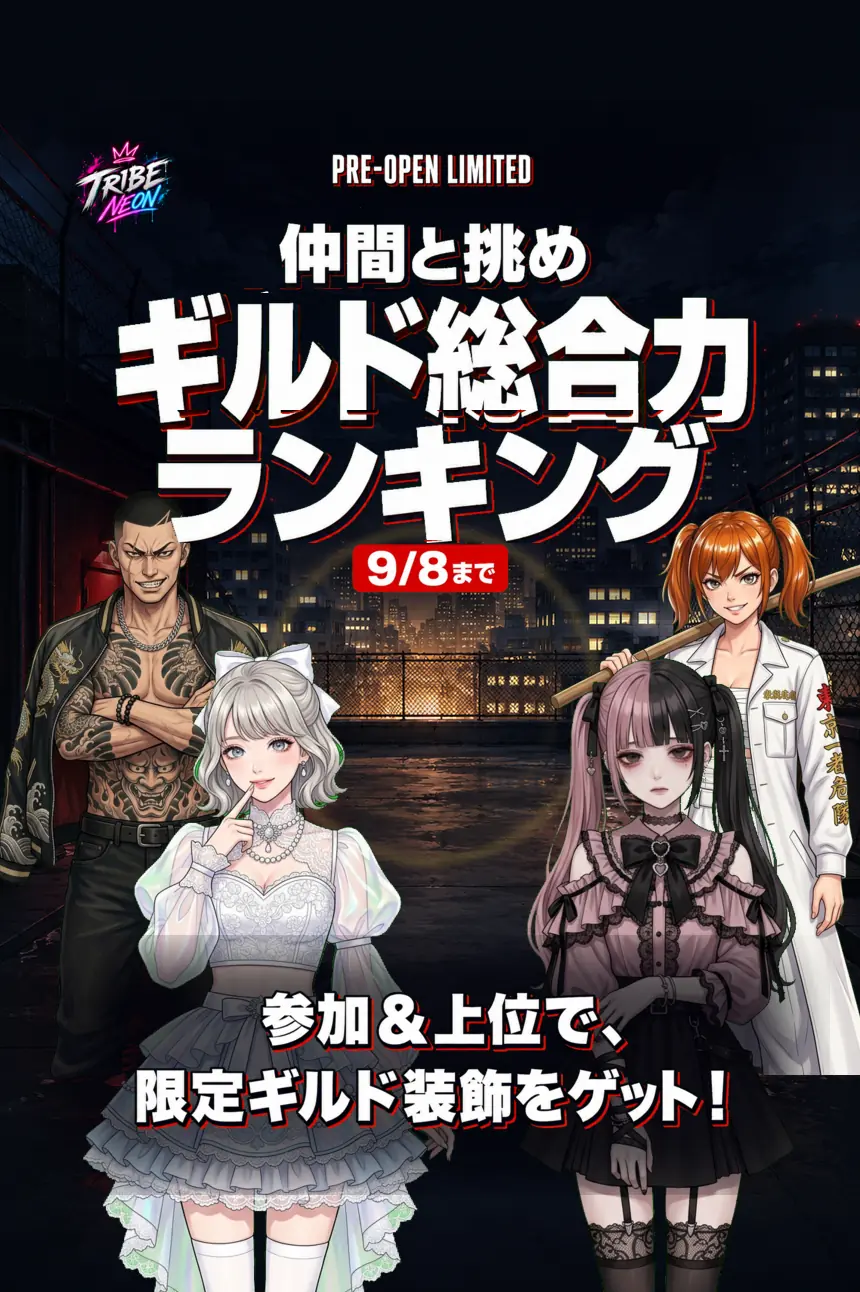
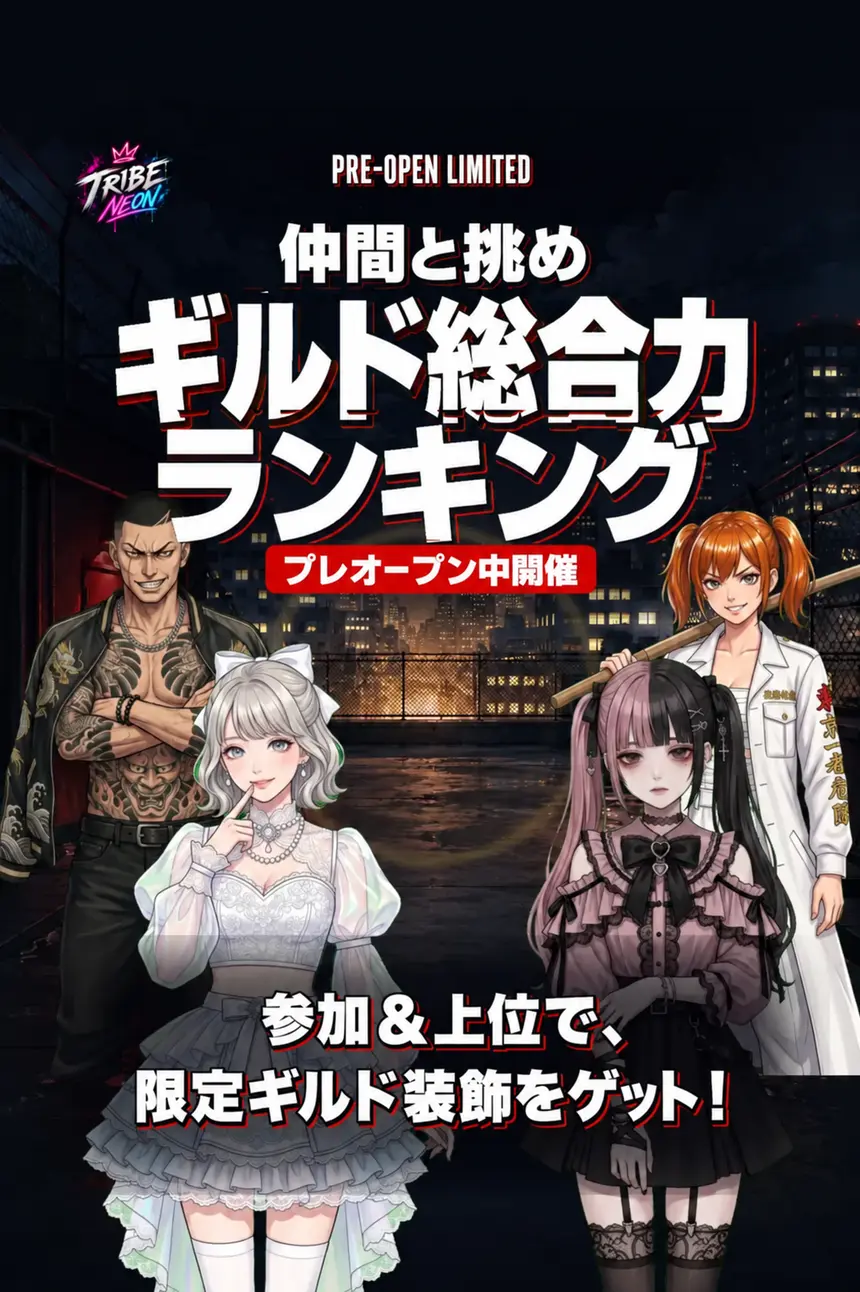
fix: extend pre-open campaigns with approved temporary end

diff --git a/src/app/qa/presentation/QaPresentationHarness.tsx b/src/app/qa/presentation/QaPresentationHarness.tsx
@@ -10,6 +10,7 @@ import GachaTab from "@/app/components/GachaTab";
 import CommonModals from "@/app/components/CommonModals";
 import Header from "@/app/components/Header";
 import HomeTab from "@/app/components/HomeTab";
+import PrepMissionEventDialogController from "@/app/components/mission/PrepMissionEventDialogController";
 import MoveBaseModal from "@/app/components/MoveBaseModal";
 import CharacterPresentation from "@/app/components/character/CharacterPresentation";
 import PageShell from "@/app/components/ui/PageShell";
@@ -365,6 +366,9 @@ function PublicProfileFixture() {
 type HomeScenario = "first-home-fresh" | "first-home-identity-loading" | "first-home-raid" | "first-home-guild-out" | "first-home-guild-in" | "first-home-guild-pending" | "first-home-favorite-missing" | "first-home-favorite-invalid" | "first-home-activity-self" | "first-home-character-tall" | "first-home-character-hair" | "first-home-campaign";
 
 function ProductionHomeFixture({ scenario }: { scenario: HomeScenario }) {
+  const prepQa = String(scenario) === "first-home-prep";
+  const [showPrepMissionDialog, setShowPrepMissionDialog] = useState(false);
+  const [prepMissionDialogCheckComplete, setPrepMissionDialogCheckComplete] = useState(false);
   const [openedProfileId, setOpenedProfileId] = useState<string | null>(null);
   const [showMoveBaseModal, setShowMoveBaseModal] = useState(false);
   const identityStartsPending = scenario === "first-home-identity-loading";
@@ -420,7 +424,14 @@ function ProductionHomeFixture({ scenario }: { scenario: HomeScenario }) {
     monthlyPassActive: false,
     isRaidActive: raidActive,
     raidBossBaseId: raidActive ? "shinjuku" : null,
-    session: null,
+    session: prepQa ? { user: { id: "00000000-0000-4000-8000-000000000405" } } : null,
+    loginBonusCheckComplete: true,
+    showLoginBonusModal: false,
+    showPrepMissionDialog,
+    setShowPrepMissionDialog,
+    prepMissionDialogCheckComplete,
+    setPrepMissionDialogCheckComplete,
+    setMissionTab: noop,
     activePatrols: [],
     onboardingState: { tutorial_step: "AUTHENTICATION", gameplay_authorized: true },
     userGuildMember: guildJoined && ctaAuthorityReady ? { role: "MEMBER" } : null,
@@ -470,9 +481,10 @@ function ProductionHomeFixture({ scenario }: { scenario: HomeScenario }) {
           funnelMilestones: milestones,
           ctaAuthorityReady,
           guildDiscoveryState: ctaAuthorityReady && !guildJoined ? "available" : "pending",
-          bannerAuthority: scenario === "first-home-campaign" ? "campaign" : "normal",
+          bannerAuthority: scenario === "first-home-campaign" || prepQa ? "campaign" : "normal",
         }} />
         <MoveBaseModal />
+        {prepQa && <PrepMissionEventDialogController />}
         {openedProfileId && <output data-opened-profile-id={openedProfileId} />}
       </PageShell>
     </div>

diff --git a/src/app/components/HomeTab.tsx b/src/app/components/HomeTab.tsx
@@ -175,8 +175,8 @@ function MainMyPage({ qaState }: { qaState?: HomeTabQaState }) {
     ? (PRODUCTION_MY_PAGE_CREATIVES || []).map((creative) => ({ id: creative.id, title: "", img: creative.assetPath, destination: creative.destination }))
     : qaState?.bannerAuthority === "campaign"
       ? [
-        { id: "gvg-prep", eventId: "GVG_PREP_20260904", title: "", img: "/promotion/mypage_banner_gvg_prep.webp", destination: "mission:SPECIAL" },
-        { id: "guild-power-ranking", eventId: "GVG_PREP_20260904", title: "", img: "/promotion/mypage_banner_guild_power_ranking.webp", destination: "campaign:GUILD_POWER" },
+        { id: "gvg-prep", eventId: "GVG_PREP_20260904", title: "", img: "/promotion/mypage_banner_gvg_prep.webp?v=20260905", destination: "mission:SPECIAL" },
+        { id: "guild-power-ranking", eventId: "GVG_PREP_20260904", title: "", img: "/promotion/mypage_banner_guild_power_ranking.webp?v=20260905", destination: "campaign:GUILD_POWER" },
       ]
       : []);
   const visibleBanners = useMemo(
@@ -251,8 +251,8 @@ function MainMyPage({ qaState }: { qaState?: HomeTabQaState }) {
       const campaignOpen = prepEvent?.is_progress_active === true || prepEvent?.progress_open === true;
       const nextBanners: HomeBanner[] = campaignOpen
         ? [
-          { id: "gvg-prep", eventId: "GVG_PREP_20260904", title: "", img: resolvePresentableAssetUrl(prepEvent.banner_image_url) || "/promotion/mypage_banner_gvg_prep.webp", destination: "mission:SPECIAL" },
-          { id: "guild-power-ranking", eventId: "GVG_PREP_20260904", title: "", img: "/promotion/mypage_banner_guild_power_ranking.webp", destination: "campaign:GUILD_POWER" },
+          { id: "gvg-prep", eventId: "GVG_PREP_20260904", title: "", img: resolvePresentableAssetUrl(prepEvent.banner_image_url) || "/promotion/mypage_banner_gvg_prep.webp?v=20260905", destination: "mission:SPECIAL" },
+          { id: "guild-power-ranking", eventId: "GVG_PREP_20260904", title: "", img: "/promotion/mypage_banner_guild_power_ranking.webp?v=20260905", destination: "campaign:GUILD_POWER" },
         ]
         : (PRODUCTION_MY_PAGE_CREATIVES || []).map((creative) => ({ id: creative.id, title: "", img: creative.assetPath, destination: creative.destination }));
       const loadableBanners = nextBanners.filter((banner) => !banner.destination
@@ -796,7 +796,7 @@ function MainMyPage({ qaState }: { qaState?: HomeTabQaState }) {
       >
         <div className="campaign-keyvisual-dialog">
           <img
-            src="/promotion/guild_power_ranking_keyvisual.webp"
+            src="/promotion/guild_power_ranking_keyvisual.webp?v=20260905"
             alt="ギルド総合力ランキング"
             onLoad={(event) => {
               const image = event.currentTarget;

diff --git a/src/app/components/RankingTab.tsx b/src/app/components/RankingTab.tsx
@@ -67,14 +67,6 @@ function formatJstTimestamp(value: string | null | undefined) {
   });
 }
 
-function formatJstDay(value: string | null | undefined, subtractMillisecond = false) {
-  if (!value) return null;
-  const date = new Date(value);
-  if (!Number.isFinite(date.getTime())) return null;
-  if (subtractMillisecond) date.setTime(date.getTime() - 1);
-  return date.toLocaleDateString("ja-JP", { timeZone: "Asia/Tokyo", month: "numeric", day: "numeric" });
-}
-
 function RankingDeck({ characterIds = [] }: { characterIds?: string[] | null }) {
   const canonicalIds = (characterIds || []).filter(Boolean).slice(0, 5);
   if (canonicalIds.length === 0) return null;
@@ -277,12 +269,6 @@ export default function RankingTab() {
   const isPreopenGuildSeason = isGuildSeasonTab && isPreopenGuildPowerSeasonContext(guildSeason);
   const guildSeasonFinalized = Boolean(guildSeason?.finalized_at) || ["FINALIZED", "COMPLETED", "CLOSED"].includes(String(guildSeason?.status || "").toUpperCase());
   const serverUpdatedAt = formatJstTimestamp(guildSeason?.updated_at || guildSeason?.finalized_at);
-  const guildSeasonStartLabel = formatJstDay(guildSeason?.starts_at);
-  const guildSeasonLastDayLabel = formatJstDay(guildSeason?.ends_at, true);
-  const guildSeasonPeriodLabel = guildSeasonStartLabel && guildSeasonLastDayLabel
-    ? `${guildSeasonStartLabel}〜${guildSeasonLastDayLabel}`
-    : "9/4〜9/8";
-  const guildSeasonEndLabel = formatJstTimestamp(guildSeason?.ends_at) || "9/9 0:00";
   const updateLabel = isPreopenGuildSeason && serverUpdatedAt
     ? `最終更新 ${serverUpdatedAt}`
     : `${clock.toLocaleTimeString("ja-JP", { hour: "2-digit", minute: "2-digit" })} 更新`;
@@ -325,7 +311,7 @@ export default function RankingTab() {
 
       {isPreopenGuildSeason && <section className={`ranking-guild-season-summary ${guildSeasonFinalized ? "is-finalized" : ""}`} aria-label="プレオープン限定シーズン情報">
         <div><strong>プレオープン限定シーズン</strong><span>{guildSeasonFinalized ? "順位確定" : "集計中"}</span></div>
-        <p className="ranking-guild-season-period">{guildSeasonPeriodLabel} <small>{guildSeasonEndLabel}集計終了</small></p>
+        <p className="ranking-guild-season-period">{guildSeasonFinalized ? "開催終了" : "プレオープン中開催"}</p>
         <p>ギルドメンバー全員の総合力で順位が決まります。仲間を集めて戦力を強化し、限定ギルド装飾を獲得しよう！</p>
       </section>}
 

diff --git a/src/app/context/hooks/useInventory.ts b/src/app/context/hooks/useInventory.ts
@@ -327,7 +327,7 @@ export function useInventory(
       playCyberSe("MISSION_REWARD");
       await syncBootstrapData(session.user.id);
       const rewards = aggregateMissionRewards(Array.isArray(res.data?.rewards) ? res.data.rewards : []);
-      setConfirmDialogConfig({ isOpen: true, title: "報酬獲得", message: targetMission.isCompletion ? "ギルドバトル開幕の準備完了！\n9月9日の正式オープンを待とう！" : "報酬を獲得しました。", kind: "reward", delivery: "INVENTORY", rewards, confirmText: "OK", cancelText: "", presentation: "canonical", onConfirm: () => setConfirmDialogConfig(null), onCancel: () => setConfirmDialogConfig(null) });
+      setConfirmDialogConfig({ isOpen: true, title: "報酬獲得", message: targetMission.isCompletion ? "ギルドバトル開幕の準備完了！\n正式オープンに備えよう！" : "報酬を獲得しました。", kind: "reward", delivery: "INVENTORY", rewards, confirmText: "OK", cancelText: "", presentation: "canonical", onConfirm: () => setConfirmDialogConfig(null), onCancel: () => setConfirmDialogConfig(null) });
     } catch (err) {
       console.warn(err);
       setMissions(prev => prev.map(m => m.id === id ? { ...m, loading: false } : m));

diff --git a/src/app/components/mission/PrepMissionEventDialogController.tsx b/src/app/components/mission/PrepMissionEventDialogController.tsx
@@ -28,7 +28,7 @@ function parsePendingDialog(value: unknown): PendingEventDialog | null {
     eventId,
     jstDate,
     displayName: String(row.display_name || "ギルドバトル準備ミッション"),
-    imageUrl: resolvePresentableAssetUrl(row.dialog_image_url) || (eventId === "GVG_PREP_20260904" ? "/promotion/gvg_preopen_mission_keyvisual.webp" : null),
+    imageUrl: resolvePresentableAssetUrl(row.dialog_image_url) || (eventId === "GVG_PREP_20260904" ? "/promotion/gvg_preopen_mission_keyvisual.webp?v=20260905" : null),
     body: String(row.dialog_body || "正式オープンに備えて戦力を強化しよう！\nミッションを達成して報酬を獲得！"),
     primaryLabel: String(row.primary_cta_label || "準備ミッションを見る"),
     secondaryLabel: String(row.secondary_cta_label || "あとで"),

diff --git a/src/utils/assetPresentation.ts b/src/utils/assetPresentation.ts
@@ -1,6 +1,10 @@
 /** Presentation guard for DB-projected image values. Raw asset IDs are not URLs. */
 export function resolvePresentableAssetUrl(value: unknown): string | null {
   const candidate = String(value || "").trim();
+  // Version the four approved pre-open replacements, including older DB URLs.
+  if (/^\/promotion\/(gvg_preopen_mission_keyvisual|mypage_banner_gvg_prep|guild_power_ranking_keyvisual|mypage_banner_guild_power_ranking)\.webp(?:\?.*)?$/.test(candidate)) {
+    return `${candidate.split("?")[0]}?v=20260905`;
+  }
   if (candidate.startsWith("/")) {
     if (/^\/bg\/bg_street_[a-z0-9_-]+\.png$/i.test(candidate)) return candidate.replace(/\.png$/i, ".jpg");
     if (/^\/gacha\/bg_gacha_(normal|sr|ssr)\.png$/i.test(candidate)) return candidate.replace(/\.png$/i, ".jpg");

diff --git a/src/domain/presentation/qaHarness.ts b/src/domain/presentation/qaHarness.ts
@@ -43,6 +43,7 @@ export const QA_PRESENTATION_SCENARIOS = [
   ["first-home-character-tall", "First Home / Tall Character"],
   ["first-home-character-hair", "First Home / Hair Volume Character"],
   ["first-home-campaign", "First Home / Pre-open Campaign"],
+  ["first-home-prep", "First Home / Preparation Dialog (RPC fixture)"],
 ] as const;
 
 export type QaPresentationScenarioId = typeof QA_PRESENTATION_SCENARIOS[number][0];

diff --git a/src/utils/mock/mockRpc.ts b/src/utils/mock/mockRpc.ts
@@ -495,7 +495,7 @@ export async function executeMockRpc(client: any, funcName: string, params: any)
     return { data: {
       event_key: "PREOPEN_GUILD_POWER_2026",
       starts_at: "2026-09-03T15:00:00.000Z",
-      ends_at: "2026-09-08T15:00:00.000Z",
+      ends_at: "2099-12-30T15:00:00.000Z",
       status: "ACTIVE",
       is_current_context: true,
       server_updated_at: new Date().toISOString(),
